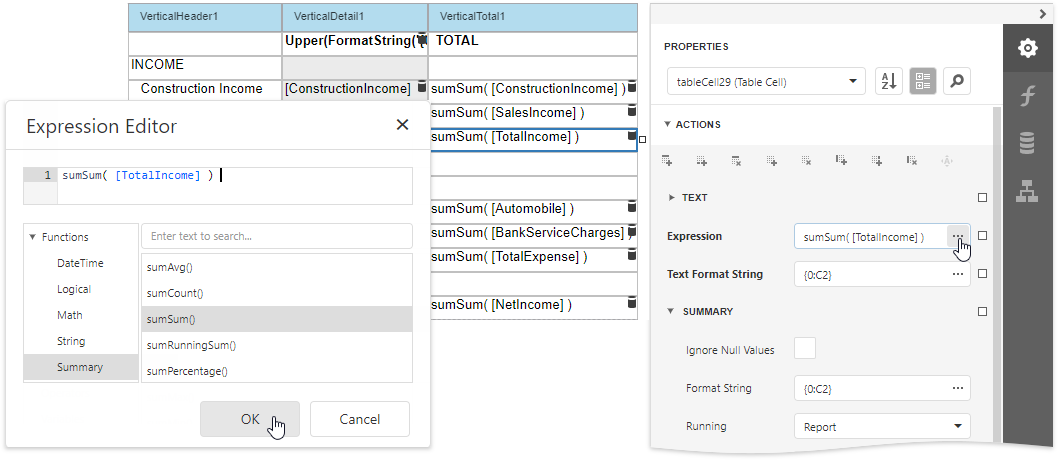
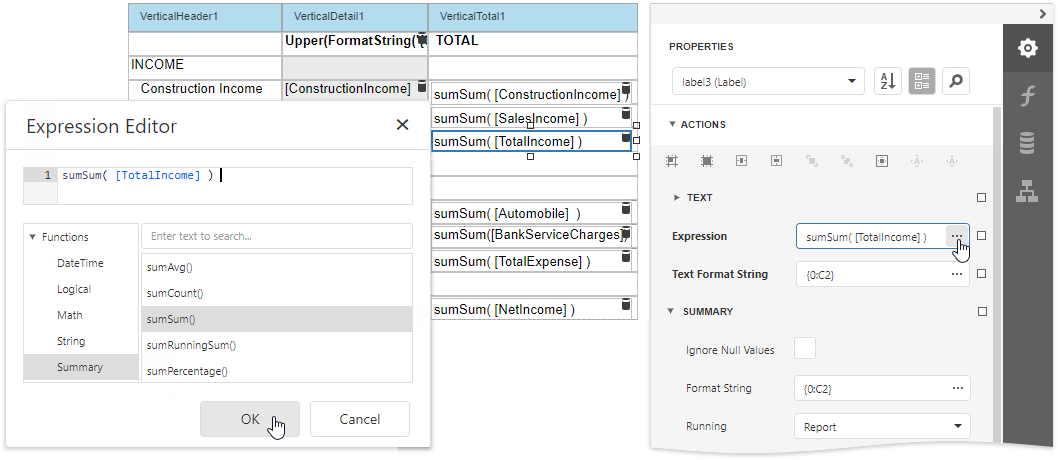
Update 'Create a Vertical Report'

diff --git a/interface-elements-for-web/articles/report-designer/create-popular-reports/create-a-vertical-report.md b/interface-elements-for-web/articles/report-designer/create-popular-reports/create-a-vertical-report.md
@@ -31,7 +31,7 @@ This tutorial describes how to use vertical bands to create a **Profit and Loss*
     |---|---|
     | ![](../../../images/eurd-web-vertical-reports-add-vertical-header.png) | The **Vertical Header band** contains a table with a single column that displays headers of the report's data fields. |
     | ![](../../../images/eurd-web-vertical-reports-add-vertical-detail.png) | The **Vertical Details band** contains a table with a single column that is printed so many times as there are records in the report's data source. |
-    | ![](../../../images/eurd-web-vertical-reports-add-vertical-total.png) | The **Vertical Total band** contains a table with a single column that has so many labels in cells as there are summary functions you specified for each field in the Report Wizard (only the sum function for each field in this demo). |
+    | ![](../../../images/eurd-web-vertical-reports-add-vertical-total.png) | The **Vertical Total band** contains a table with a single column that has so many labels in cells as there are summary functions you specified for each field in the Report Wizard (only the **sum** function for each field in this demo). |
 
 ## Set Up the Vertical Header Band
 
@@ -67,12 +67,13 @@ This tutorial describes how to use vertical bands to create a **Profit and Loss*
 
 1. Drop the **Table** control onto the Vertical Total band. Add cells corresponding to the extra cells you added in the Vertical Header band. Set the first cell's **Text** property to _TOTAL_.
 
-2. Select a table cell, expand the **Actions** category, select the **Summary** section and set the **Running** property to **Report** to display vertical totals that summarize totals in each group.
+2. Add labels to display vertical totals that summarize totals in each group.
+ Select a label, expand the **Actions** category, select the **Summary** section and set the **Running** property to **Report**.
 
     ![](../../../images/eurd-web-vertical-reports-set-summary-running.png)
 
-3. Specify the **Expression** and **Text Format String** properties for table cells.   
-
+3. Specify the **Expression** and **Text Format String** properties for table cells. Copy and paste a label with a total function so that all totals have the same size and position.
+  
     ![](../../../images/eurd-web-vertical-reports-summaries.png)
 
 ## Preview the Result
